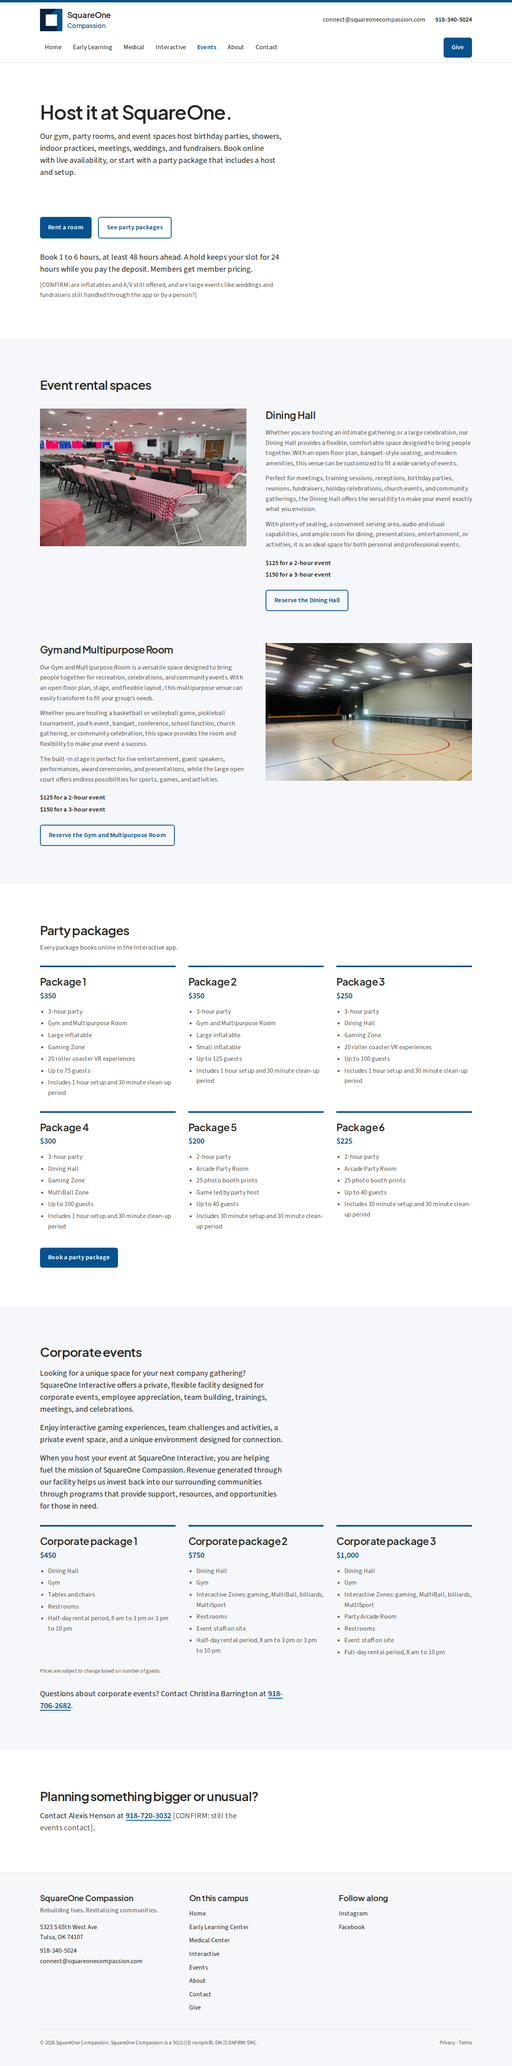
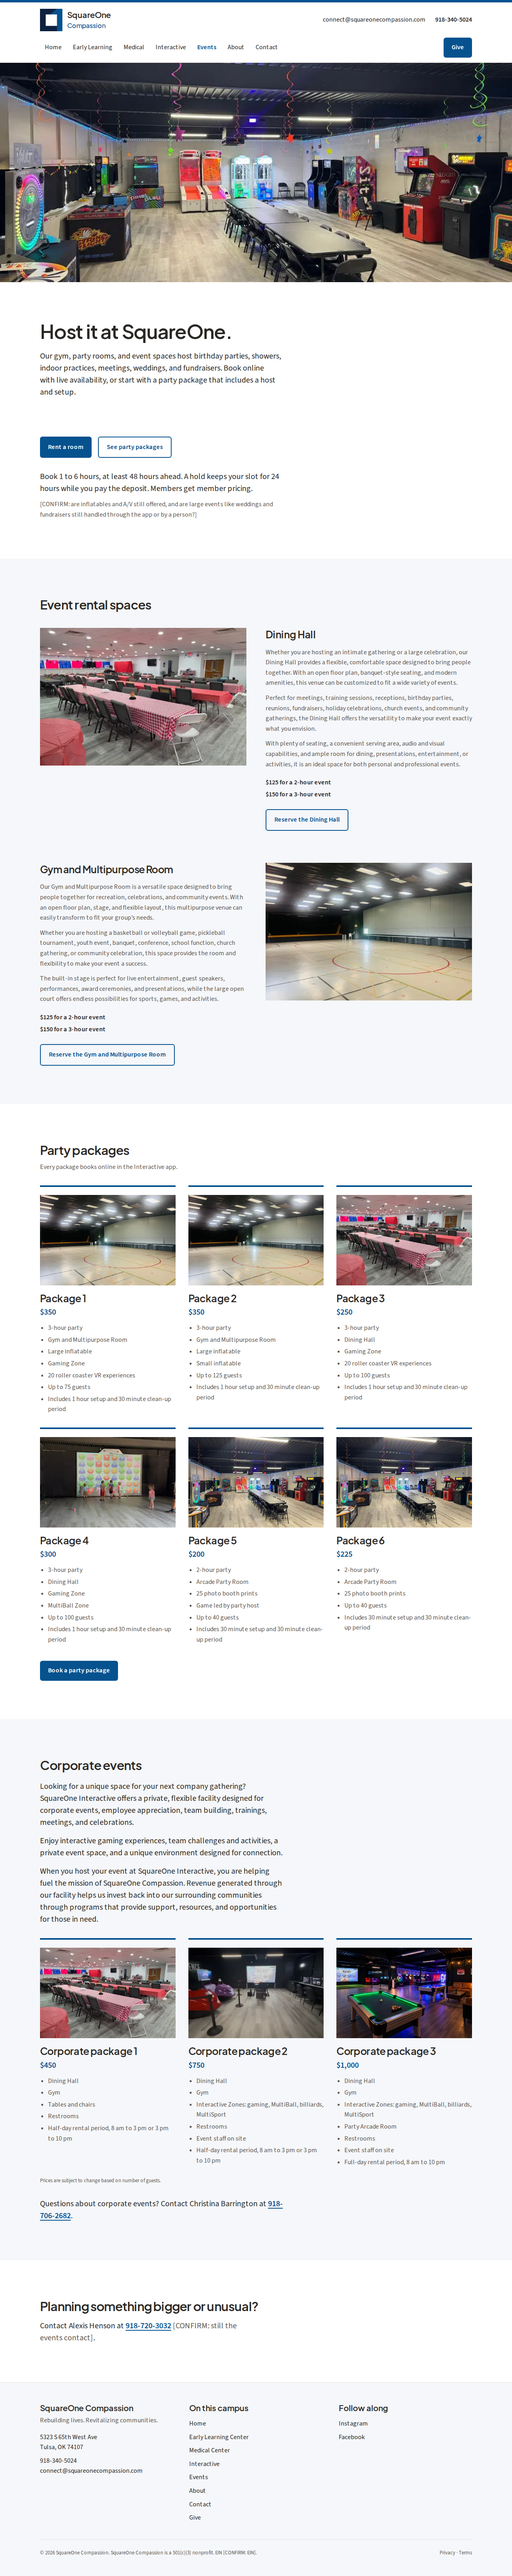
Add photos to the Events page
Uses the arcade party room as a full-bleed banner under the header and
gives every party and corporate package a photo of the space it includes,
all from images already in the repo.

Claude-Session: https://claude.ai/code/session_01Dy1NBE1CDjARVuM4emY1ru

diff --git a/content/interactive.ts b/content/interactive.ts
@@ -159,21 +159,23 @@ export interface Package {
   name: string
   price: string
   items: string[]
+  photo: string
+  photoAlt: string
 }
 
 export const PARTY_PACKAGES: Package[] = [
-  { name: 'Package 1', price: '$350', items: ['3-hour party', 'Gym and Multipurpose Room', 'Large inflatable', 'Gaming Zone', '20 roller coaster VR experiences', 'Up to 75 guests', 'Includes 1 hour setup and 30 minute clean-up period'] },
-  { name: 'Package 2', price: '$350', items: ['3-hour party', 'Gym and Multipurpose Room', 'Large inflatable', 'Small inflatable', 'Up to 125 guests', 'Includes 1 hour setup and 30 minute clean-up period'] },
-  { name: 'Package 3', price: '$250', items: ['3-hour party', 'Dining Hall', 'Gaming Zone', '20 roller coaster VR experiences', 'Up to 100 guests', 'Includes 1 hour setup and 30 minute clean-up period'] },
-  { name: 'Package 4', price: '$300', items: ['3-hour party', 'Dining Hall', 'Gaming Zone', 'MultiBall Zone', 'Up to 100 guests', 'Includes 1 hour setup and 30 minute clean-up period'] },
-  { name: 'Package 5', price: '$200', items: ['2-hour party', 'Arcade Party Room', '25 photo booth prints', 'Game led by party host', 'Up to 40 guests', 'Includes 30 minute setup and 30 minute clean-up period'] },
-  { name: 'Package 6', price: '$225', items: ['2-hour party', 'Arcade Party Room', '25 photo booth prints', 'Up to 40 guests', 'Includes 30 minute setup and 30 minute clean-up period'] },
+  { name: 'Package 1', price: '$350', photo: '/photos/interactive/gym.webp', photoAlt: 'The Gym and Multipurpose Room', items: ['3-hour party', 'Gym and Multipurpose Room', 'Large inflatable', 'Gaming Zone', '20 roller coaster VR experiences', 'Up to 75 guests', 'Includes 1 hour setup and 30 minute clean-up period'] },
+  { name: 'Package 2', price: '$350', photo: '/photos/interactive/gym.webp', photoAlt: 'The Gym and Multipurpose Room', items: ['3-hour party', 'Gym and Multipurpose Room', 'Large inflatable', 'Small inflatable', 'Up to 125 guests', 'Includes 1 hour setup and 30 minute clean-up period'] },
+  { name: 'Package 3', price: '$250', photo: '/photos/interactive/dining-hall.webp', photoAlt: 'The Dining Hall set for a party', items: ['3-hour party', 'Dining Hall', 'Gaming Zone', '20 roller coaster VR experiences', 'Up to 100 guests', 'Includes 1 hour setup and 30 minute clean-up period'] },
+  { name: 'Package 4', price: '$300', photo: '/photos/interactive/multiball.webp', photoAlt: 'Children playing in the MultiBall Zone', items: ['3-hour party', 'Dining Hall', 'Gaming Zone', 'MultiBall Zone', 'Up to 100 guests', 'Includes 1 hour setup and 30 minute clean-up period'] },
+  { name: 'Package 5', price: '$200', photo: '/photos/interactive/party-arcade.webp', photoAlt: 'The Arcade Party Room with its party table', items: ['2-hour party', 'Arcade Party Room', '25 photo booth prints', 'Game led by party host', 'Up to 40 guests', 'Includes 30 minute setup and 30 minute clean-up period'] },
+  { name: 'Package 6', price: '$225', photo: '/photos/interactive/party-arcade.webp', photoAlt: 'The Arcade Party Room with its party table', items: ['2-hour party', 'Arcade Party Room', '25 photo booth prints', 'Up to 40 guests', 'Includes 30 minute setup and 30 minute clean-up period'] },
 ]
 
 export const CORPORATE_PACKAGES: Package[] = [
-  { name: 'Corporate package 1', price: '$450', items: ['Dining Hall', 'Gym', 'Tables and chairs', 'Restrooms', 'Half-day rental period, 8 am to 3 pm or 3 pm to 10 pm'] },
-  { name: 'Corporate package 2', price: '$750', items: ['Dining Hall', 'Gym', 'Interactive Zones: gaming, MultiBall, billiards, MultiSport', 'Restrooms', 'Event staff on site', 'Half-day rental period, 8 am to 3 pm or 3 pm to 10 pm'] },
-  { name: 'Corporate package 3', price: '$1,000', items: ['Dining Hall', 'Gym', 'Interactive Zones: gaming, MultiBall, billiards, MultiSport', 'Party Arcade Room', 'Restrooms', 'Event staff on site', 'Full-day rental period, 8 am to 10 pm'] },
+  { name: 'Corporate package 1', price: '$450', photo: '/photos/interactive/dining-hall.webp', photoAlt: 'The Dining Hall set with banquet tables', items: ['Dining Hall', 'Gym', 'Tables and chairs', 'Restrooms', 'Half-day rental period, 8 am to 3 pm or 3 pm to 10 pm'] },
+  { name: 'Corporate package 2', price: '$750', photo: '/photos/interactive/gaming.webp', photoAlt: 'Gaming stations and simulators in the Gaming Zone', items: ['Dining Hall', 'Gym', 'Interactive Zones: gaming, MultiBall, billiards, MultiSport', 'Restrooms', 'Event staff on site', 'Half-day rental period, 8 am to 3 pm or 3 pm to 10 pm'] },
+  { name: 'Corporate package 3', price: '$1,000', photo: '/photos/interactive/banner.webp', photoAlt: 'The full SquareOne Interactive floor', items: ['Dining Hall', 'Gym', 'Interactive Zones: gaming, MultiBall, billiards, MultiSport', 'Party Arcade Room', 'Restrooms', 'Event staff on site', 'Full-day rental period, 8 am to 10 pm'] },
 ]
 
 export const CORPORATE_CONTACT = { name: 'Christina Barrington', phone: '918-706-2682' }

diff --git a/app/events/page.tsx b/app/events/page.tsx
@@ -1,7 +1,9 @@
 import type { Metadata } from 'next'
+import Image from 'next/image'
 import { PageIntro, Section } from '@/components/Section'
 import { Confirm } from '@/components/Confirm'
 import { ZoneCard } from '@/components/ZoneCard'
+import { PageBanner } from '@/components/PageBanner'
 import { appUrl, telHref } from '@/lib/site'
 import { getActiveFacilities } from '@/lib/interactive'
 import { EVENT_SPACES, PARTY_PACKAGES, CORPORATE_PACKAGES, CORPORATE_CONTACT, type Package } from '@/content/interactive'
@@ -13,6 +15,7 @@ function PackageList({ packages }: { packages: Package[] }) {
     <ul className="mt-8 grid gap-8 sm:grid-cols-2 lg:grid-cols-3">
       {packages.map((p) => (
         <li key={p.name} className="border-t-4 border-accent pt-5">
+          <Image src={p.photo} alt={p.photoAlt} width={800} height={533} sizes="(min-width: 1024px) 360px, (min-width: 640px) 50vw, 100vw" className="mb-4 aspect-[3/2] w-full object-cover" />
           <h3 className="text-xl">{p.name}</h3>
           <p className="mt-1 text-lg font-semibold text-accent-ink">{p.price}</p>
           <ul className="mt-3 list-disc space-y-1 pl-5 text-muted">
@@ -35,6 +38,7 @@ export default async function EventsPage() {
 
   return (
     <>
+      <PageBanner src="/photos/interactive/party-arcade.webp" alt="The Arcade Party Room at SquareOne Interactive, with a long party table surrounded by arcade games" priority />
       <PageIntro title="Host it at SquareOne.">
         <p className="text-ink">
           Our gym, party rooms, and event spaces host birthday parties, showers, indoor practices, meetings, weddings, and fundraisers. Book online with live availability, or start with a party package that includes a host and setup.
